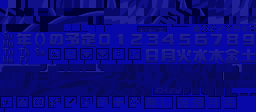
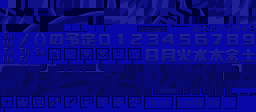
Phase 8: PDA calendar header 2000/12 (SCR 0217E54 月 cells blanked, 年 -> /), schedule repeat row None / per Wk / Mo / Yr, おわる -> Quit (gfx_text stack boxes); D16

Changed region(s): [[0.6875, 0.8571, 0.9375, 0.9643], [0.5625, 0.8571, 0.6562, 0.9643], [0.0625, 0.3214, 0.125, 0.4286]]

diff --git a/tools/gfx_text.py b/tools/gfx_text.py
@@ -289,11 +289,20 @@ ATLASES = {
     },
     # PDA calendar charset (BG, block 0215E74): the weekday row under the month header is 16x8 glyphs (日 0,32
     # 月 0,40 火 0,48 水 0,56 木 16,48 金 16,56 土 32,48; rows 14 13 13 12 12 11 11, shadow 10 below) -> Su..Sa.
-    # Still JP: the header's 年 (16,32) and 月 (= the 16x16 weekday 月 at 160,48), の予定: need the code (see
-    # docs/re/graphics.md "Money diary dates").
+    # Month header "2000年 0月" (static SCR 0x217E54, digits on BG0): 年 (16,32, only the header uses it) -> a big
+    # "/", the 月 cells (the 16x16 weekday 月 at 160,48) are blanked in the SCR by gfx.MAP_PATCHES: "2000/12".
     0x215E74: {
         "redraw": [(t, (x, y, x + 16, y + 8), "row", [14, 13, 13, 12, 12, 11, 11], 10, "vwf", 0, WEEK_KILL)
-                   for t, (x, y) in zip(WEEKDAYS, [(0, 32), (0, 40), (0, 48), (0, 56), (16, 48), (16, 56), (32, 48)])],
+                   for t, (x, y) in zip(WEEKDAYS, [(0, 32), (0, 40), (0, 48), (0, 56), (16, 48), (16, 56), (32, 48)])]
+                  + [("/", (16, 32, 32, 48), "row", WEEK_GRAD, 10, "vwf2", 1, WEEK_KILL)]
+                  # schedule form repeat row (scene pda_sched_d4): 16x16 boxed units 無|し, 毎 (left half shared
+                  # by 毎週 / 毎月 / 毎年) + 週 / 月 / 年 right halves, ink 1 on transparent -> None, per Wk / Mo / Yr
+                  + [("None", (145, 97, 172, 108), "row", 1, None, "vwf", 2, {1}),
+                     ("per", (177, 97, 192, 108), "row", 1, None, "vwf", 2, {1})]
+                  + [(t, (x, 97, x + 12, 108), "row", 1, None, "vwf", 2, {1}, "right")
+                     for t, x in (("Wk", 192), ("Mo", 208), ("Yr", 224))]
+                  # おわる button (errand / schedule forms): 4x2 tiles, top row at 136,24, bottom row at 152,88
+                  + [("Quit", {"stack": [(136, 24, 168, 32), (152, 88, 184, 96)]}, "row", 1, None, "vwf", 5, {1})],
     },
     # PDA calculator (mode 7) + memo R header (OBJ, block 02280B4, OBJ tile 32*row + col at VRAM 0x10000). Button
     # words are separate sprites on transparent 0 laid over the 64 px buttons (OAM f600: やりなおし = atlas
@@ -708,6 +717,23 @@ def redraw(a, spec):
                     for x in range(x0, x1):
                         a.px[(y0 + y) * a.W + x] = strip.px[y * strip.W + ox + x - x0]
                 ox += x1 - x0
+            continue
+        if isinstance(item[1], dict):   # {"stack": boxes}: atlas boxes of one width shown one above the other
+            segs = item[1]["stack"]
+            w = segs[0][2] - segs[0][0]
+            strip = type("Strip", (), {})()
+            strip.W = w
+            strip.px = []
+            for x0, y0, x1, y1 in segs:
+                for y in range(y0, y1):
+                    strip.px += a.px[y * a.W + x0:y * a.W + x1]
+            h = len(strip.px) // w
+            redraw(strip, {**spec, "redraw": [(item[0], (0, 0, w, h)) + tuple(item[2:])], "votes": {}})
+            oy = 0
+            for x0, y0, x1, y1 in segs:
+                for y in range(y0, y1):
+                    a.px[y * a.W + x0:y * a.W + x1] = strip.px[(oy + y - y0) * w:(oy + y - y0 + 1) * w]
+                oy += y1 - y0
             continue
         text, (x0, y0, x1, y1), fill, ink, shadow, font, dy, *own = item
         # ink may be a list: this box's own per-glyph-row gradient (another box may use the same index flat);

diff --git a/tools/gfx.py b/tools/gfx.py
@@ -50,6 +50,10 @@ MAP_PATCHES = [
     (0x25F0BA + 6, [0x3000], [0x300A], "PAT 025F094 Move title: 32x16 r0 c0 -> r0 c10"),
     (0x25F156 + 2, [9], [0xFFE9], "PAT 025F134 frame 0 (L Status, pal 1): repeated ス x 9 -> -23"),
     (0x25F188 + 2, [9], [0xFFE9], "PAT 025F134 frame 1 (L Status, pal 2): repeated ス x 9 -> -23"),
+    # PDA calendar month header (raw SCR at 0x217E54, 30x20 words from +8; block 0215E74 tiles): 年 becomes "/" in
+    # the art, the 月 unit cells (row 3-4, col 21-22) go blank: "2000年 0月" -> "2000/ 0".
+    (0x217F3A, [0x10D4, 0x10D5], [0x1000, 0x1000], "calendar header SCR 0217E54 row 3: no 月 unit"),
+    (0x217F76, [0x10F4, 0x10F5], [0x1000, 0x1000], "calendar header SCR 0217E54 row 4: no 月 unit"),
 ]
 # PDA money diary dates (block 021C414; docs/re/graphics.md "Money diary dates"). Glyphs are drawn by 0x0802DF10
 # (r1 = glyph index into the table at 0x080D2590: u16 tile|pal<<12, u16 kind 0=16x16 1=8x16 2=8x8). The date units

diff --git a/docs/decisions.md b/docs/decisions.md
@@ -21,3 +21,4 @@ decision replaces one, mark the old one "replaced by D<n>" instead of deleting i
 | D13 | 2026-11-15 | Weekday row t0B8254 (agent's call, phase-6 review) | Su Mo (glossary at b042), Sun Mon (shipped) | Sun Mon...: the usual short form, fits the 6-byte day slot (3 letters + 3 PAD) and the JP （日） cell; glossary updated. |
 | D14 | 2026-11-15 | PDA index tabs ア..ワ (agent's call under D5/D6, phase 8) | romaji rows (A Ka Sa..), initials (A K S T N H M Y R W), A-Z | Initials: the game still sorts entries by kana row, so the tabs name those rows; the BG tab art shares its side tiles between tabs, leaving 8 px per letter (two-letter rows do not fit the last three tabs). Same letters on the OBJ selected-tab copies. |
 | D15 | 2026-11-15 | PDA timetable subject icons (agent's call under D4, phase 8; flagged abbreviation) | 3-letter abbreviations beside the icon, drop the icons for full words in 32 px (mini caps), relocate the cells | Abbreviate: each cell is a 16x16 icon + a 16x16 one-kanji abbreviation (国 = 国語), the game's own short form; no text names the subjects anywhere else, and the 32x16 cell is fixed in the timetable grid. Jpn Ari Sci Soc Mth Eng Hlth PE Tec HEc Crf Art Mus JpH WHi Geo Chm Phy Civ Eth Bio HR Clb (クラブ) Act (部活) Cmt (委員会). Listed in docs/polish.md. |
+| D16 | 2026-11-15 | PDA schedule repeat boxes 無し / 毎週 / 毎月 / 毎年 + calendar header 2000年 0月 (agent's call under D4, phase 8) | Weekly / Monthly / Yearly (no room: the 毎 half is one 16 px tile shared by three boxes), "per Wk / per Mo / per Yr", "Ev. Wk"; header "2000/12" or "Dec 2000" (month digits are drawn by code on another BG) | None, per Wk, per Mo, per Yr: the shared left half says "per", each right half (12 px) its unit. Header "2000/12": 年 drawn as "/", the 月 unit cells blanked in the static SCR, matching the money diary dates. |

diff --git a/docs/re/graphics.md b/docs/re/graphics.md
@@ -275,7 +275,14 @@ itself is a sprite). Rows 11-13 c0-11 / c24-31 hold glyph-like tiles no map of t
   の予定 4,6-11 are on a screen not yet seen, likely the calendar day view). Its map words are not queued through
   0x03002450 (mapwrite on that queue and on EWRAM caught nothing; the VRAM write at f304 is pc 0x08002462,
   lr 0x0800560F): find the builder from there, then the same fix (年 -> "/", 月 unit -> nothing or a copy).
-  Also still JP in 0215E74: boxed 無し / 毎週 / 月 / 年 (y96) and the small おわる box (y24 x136).
+- **Done (worker 17):** the header is a static raw SCR at **0x217E54** (`SCR\0`, 30x20 words from +8; the 8 SCRs
+  0x2174D4-0x2197F4 are the calendar / form screens), only the digits are code (BG0). 年 (4,2) is used by that
+  SCR alone -> big "/"; the 月 cells (row 3-4 col 21-22) blanked by `gfx.MAP_PATCHES`: "2000/ 0" (the 1-digit
+  month slot leaves the original's gap). Schedule form repeat row (scene `pda_sched_d4`, Down x6 after L): 16x16
+  units copied by code into BG2 tiles, 無|し (144,96 + 160,96), 毎 (176,96, left half of 毎週 / 毎月 / 毎年), 週 / 月
+  / 年 right halves (192 / 208 / 224) -> None, per + Wk / Mo / Yr (D16). おわる button (errand + schedule forms) is
+  a 4x2 tile button split in the atlas: top row 3 col 17-20 (136,24), bottom row 11 col 19-22 (152,88) -> Quit
+  (gfx_text `{"stack": [...]}` boxes). Seen: `work/qa/cal_en/`.
 
 ## Rows (ROM offset of the ECD block)
 | Offset | Sheet | Japanese | Gloss | Kind |
